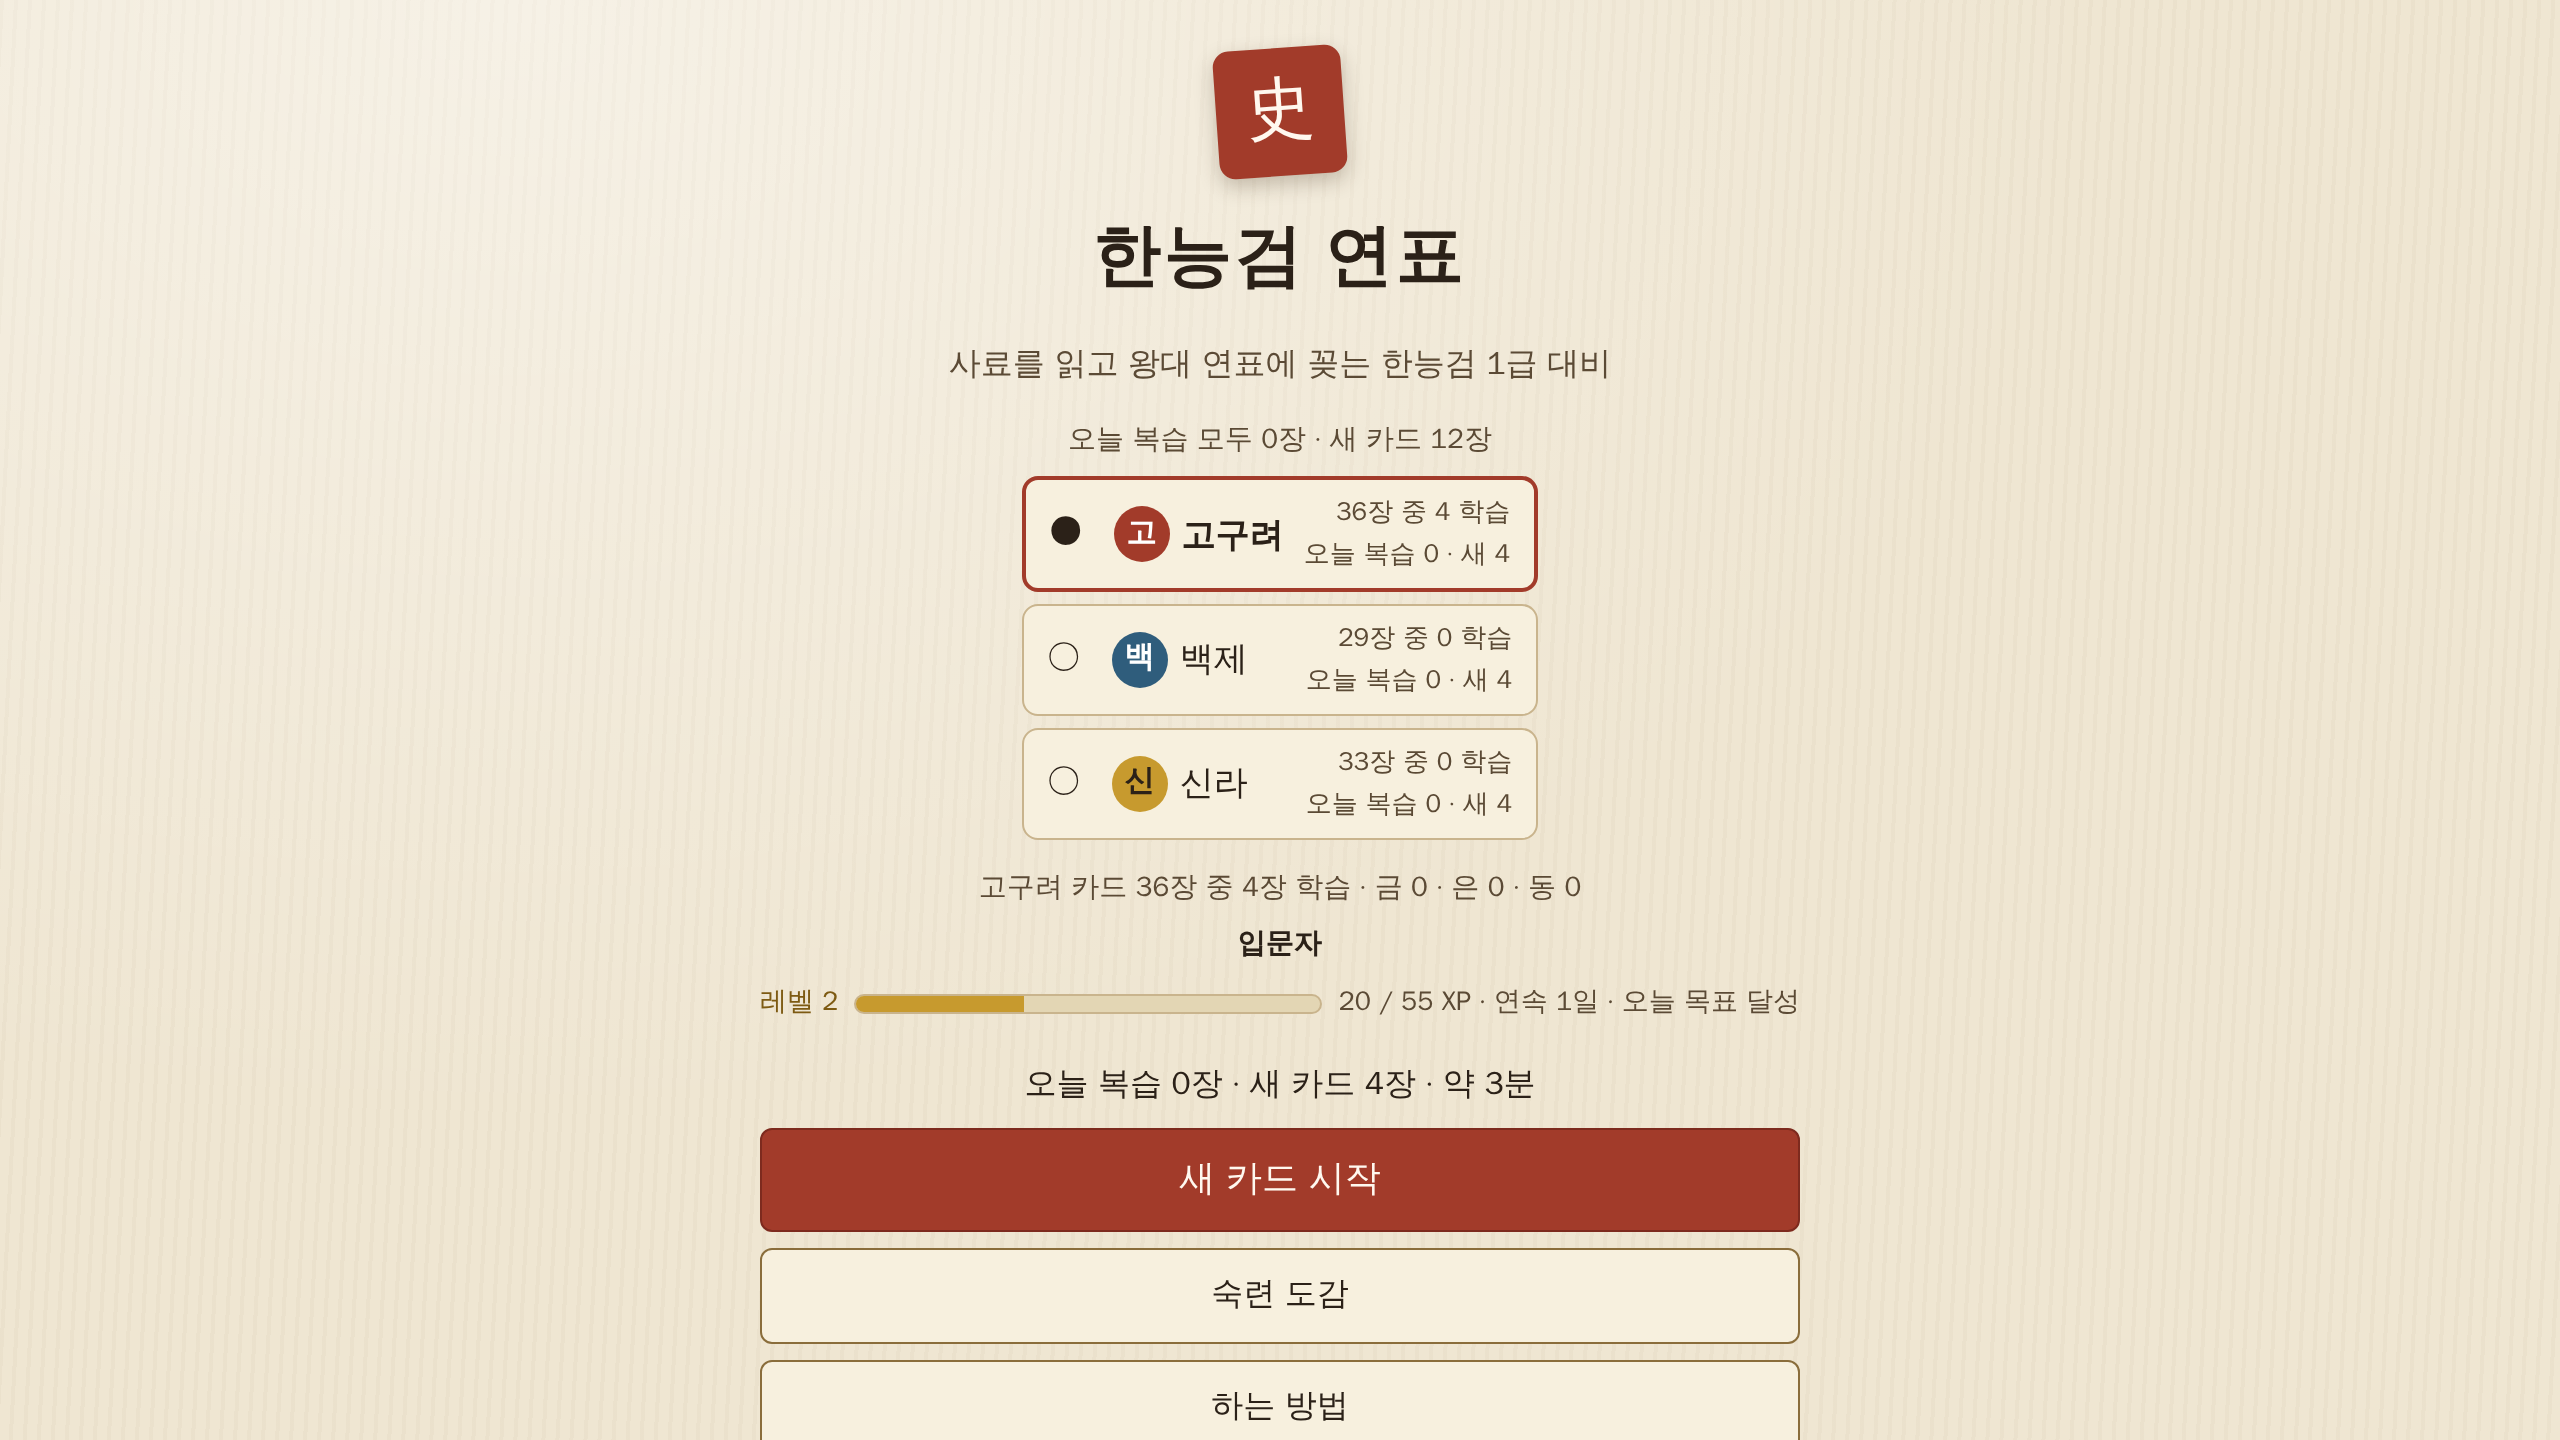
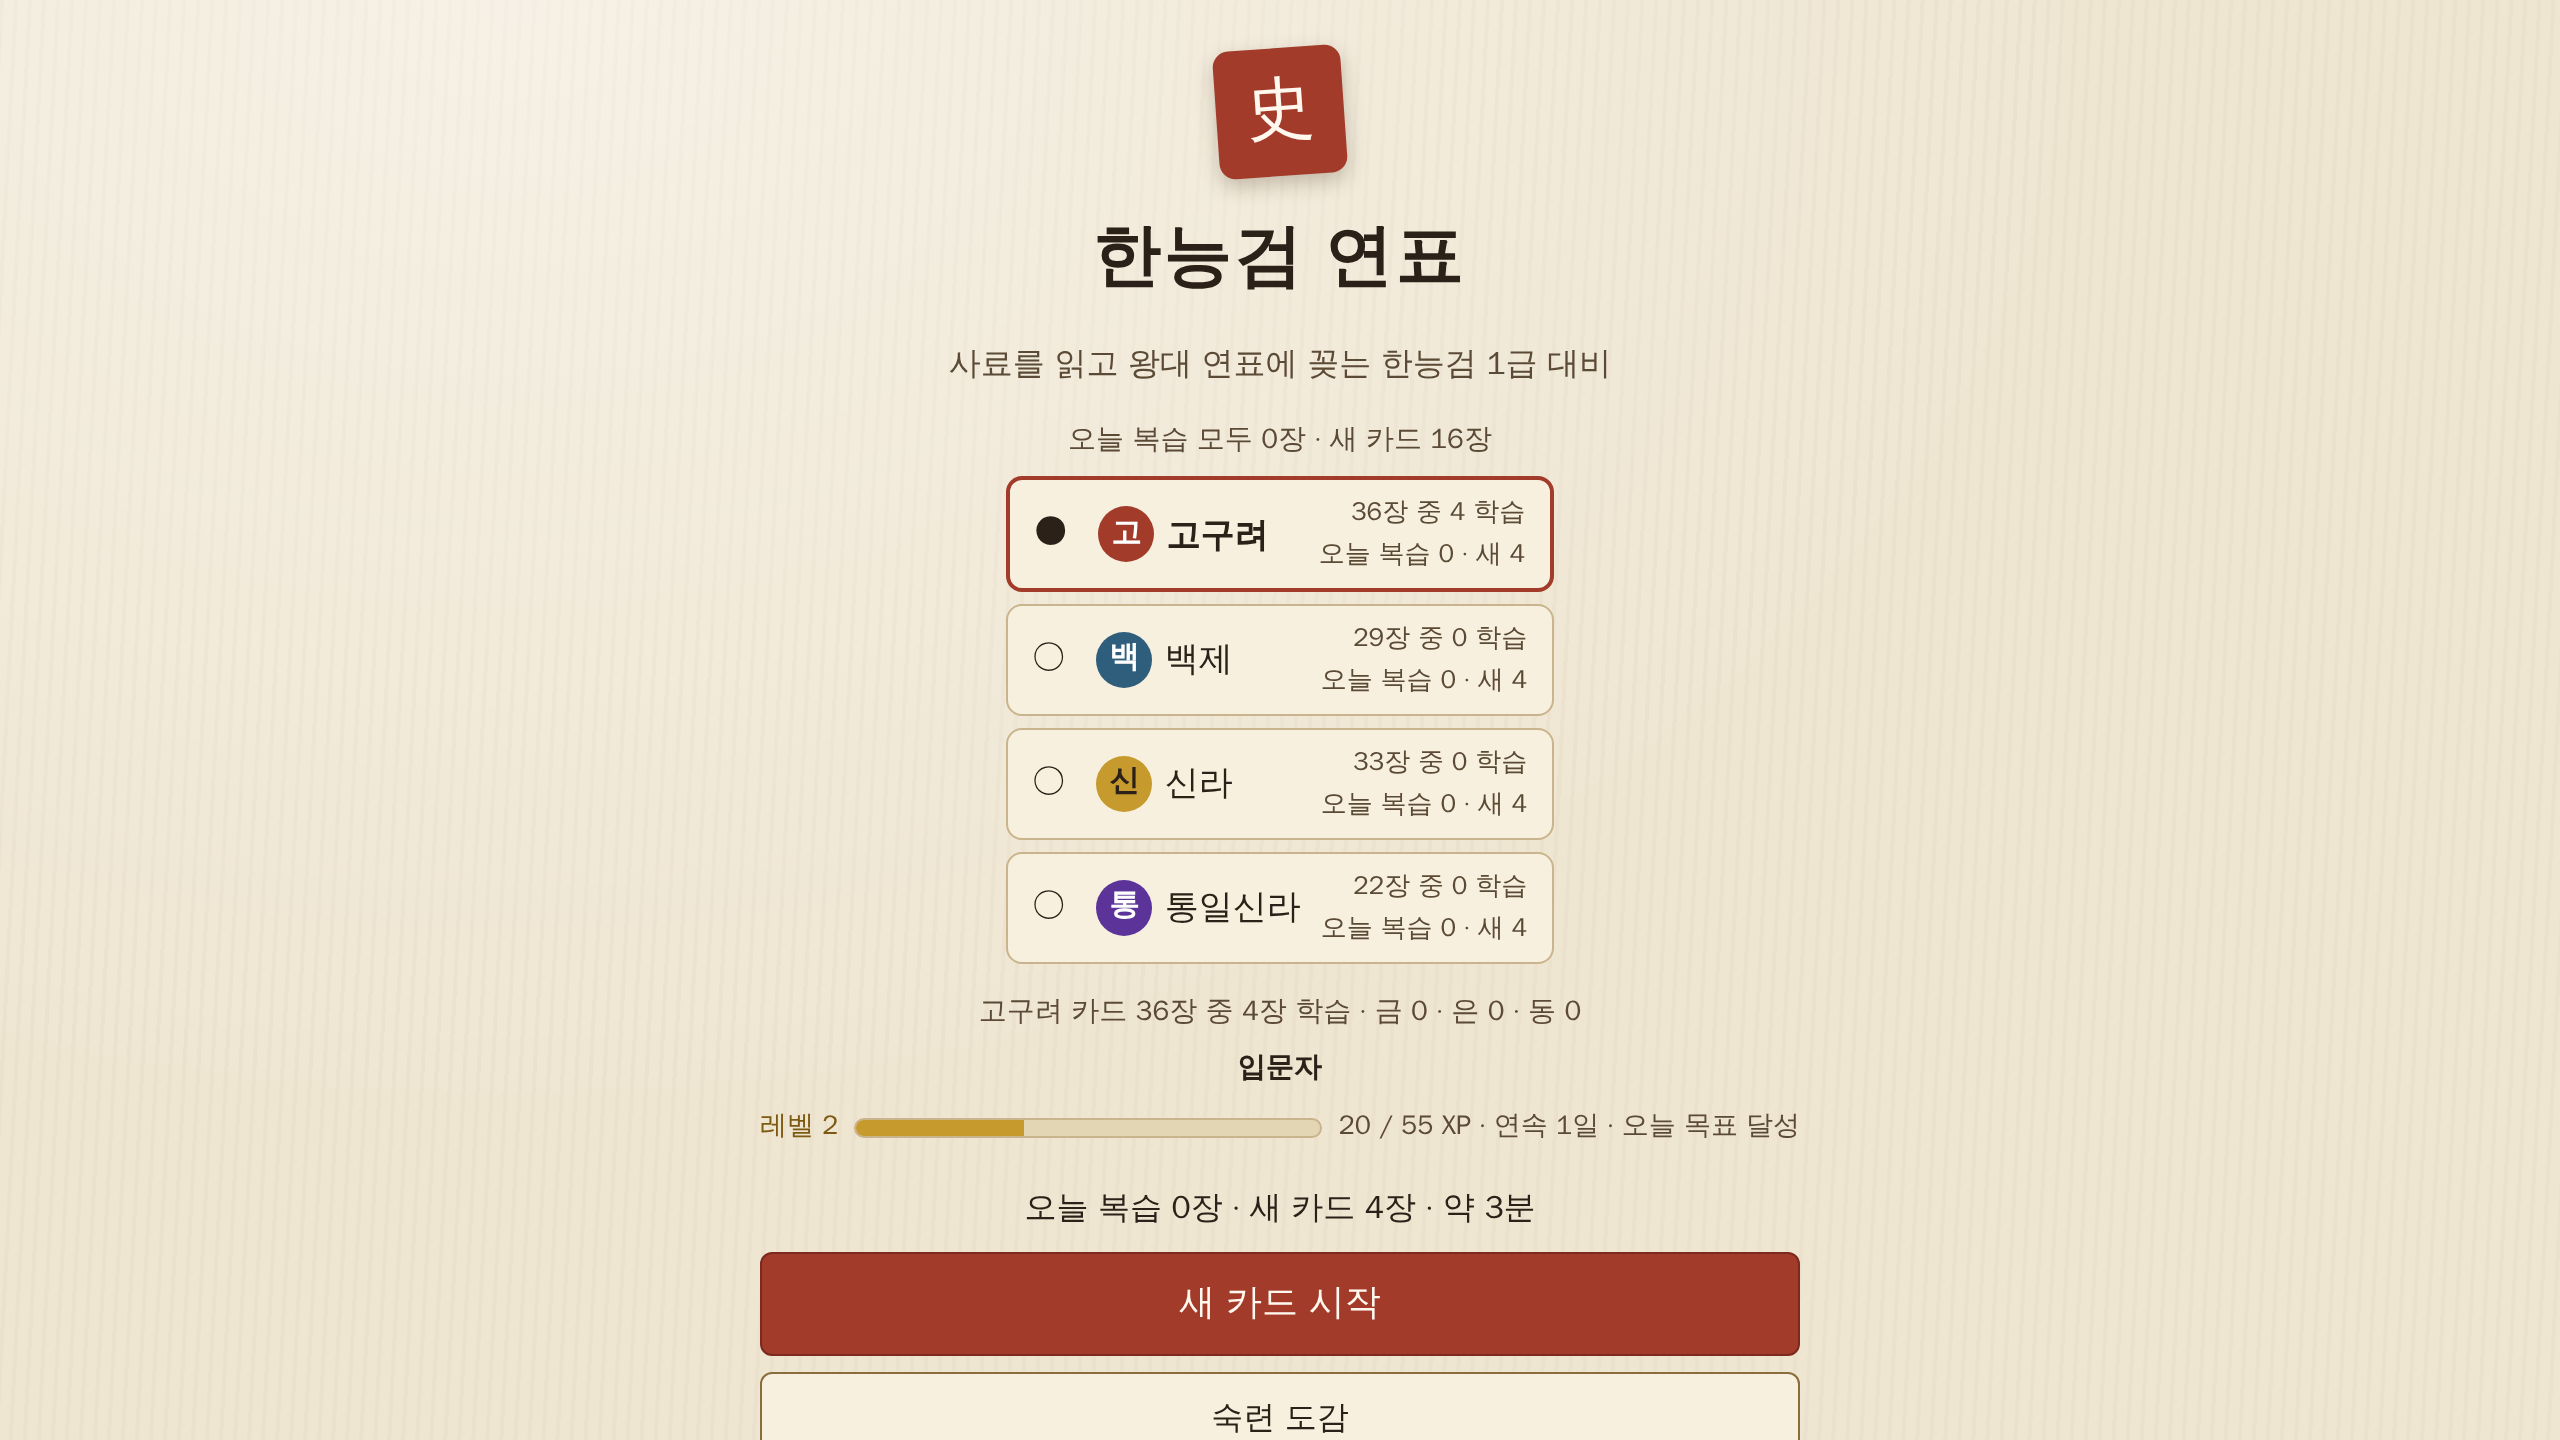
test: run usilla checks on the real 4-nation manifest, re-shoot evidence (D112)
- usilla and 4-nation e2e use the registered manifest (D210); drop temp fixture
- Add 25-usilla-title and 26-usilla-timeline screenshots at 390 and 1280

Task: D112, follows content D210

Claude-Session: https://claude.ai/code/session_01KFwKcXZaAYXL5Re7NZj86K

Changed region(s): [[0.2812, 0.4375, 0.7188, 1.0], [0.375, 0.3438, 0.625, 0.4062], [0.4062, 0.4375, 0.5, 0.4688]]

diff --git a/docs/decision-log.md b/docs/decision-log.md
@@ -1112,6 +1112,11 @@
 - **웹 테스트 고정 목록 경로 수정**: `prototypes/m1-timeline/tests/fixtures/manifest-usilla.json`이 staging 경로를 가리켜 e2e-m2 1건이 실패했다(파일을 옮긴 결과). 경로만 `v2/`로 고쳐 통과시켰다(웹 소관 파일, 내용·단언 변경 없음).
 - 확인 안내서 재생성(191항목·17묶음), 덱 이름 표기를 "통일신라"로.
 
+## 2026-11-05 D112. 통일신라 등록(D210) 뒤 실제 4개 나라로 e2e·스크린샷 갱신 (웹 빌드 세션)
+- integration 병합(콘텐츠 D210: usilla 매니페스트 등록, staging 파일 이동). 통일신라 e2e와 "나라 4개" e2e를 실제 매니페스트로 돌리고 임시 픽스처 `manifest-usilla.json`은 지웠다.
+- 스크린샷 `*-25-usilla-title`, `*-26-usilla-timeline`(390·1280) 추가, 전 화면 65장 재촬영. 코드 변경 없음(D110 그대로 동작).
+- 단위 91, e2e 63 통과.
+
 ## 남은 문제
 - 카드 44장 전부 `verified: false`. 사람의 사실 확인 전에는 출시 빌드에 넣을 카드가 없다(`validate_cards.py --release` 실패가 정상).
 - 같은 사료(삼국사기 전승)에 기댄 건국기 카드가 많다. 플레이에서 건국기 칸이 단서 3단계 의존으로 쏠리는지 볼 것.
